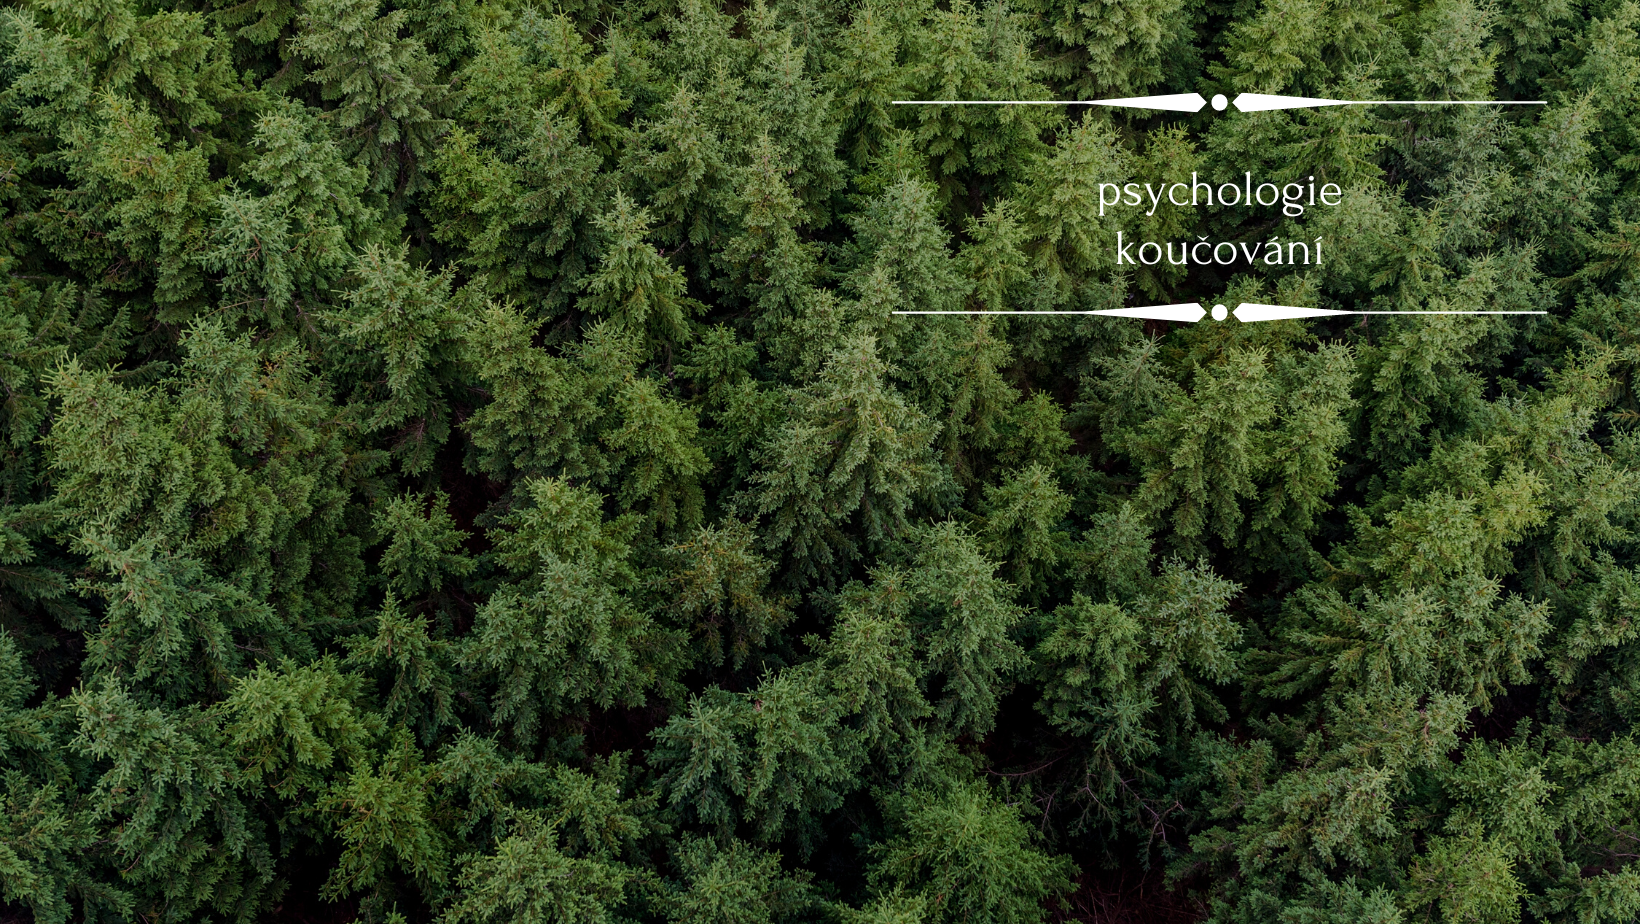
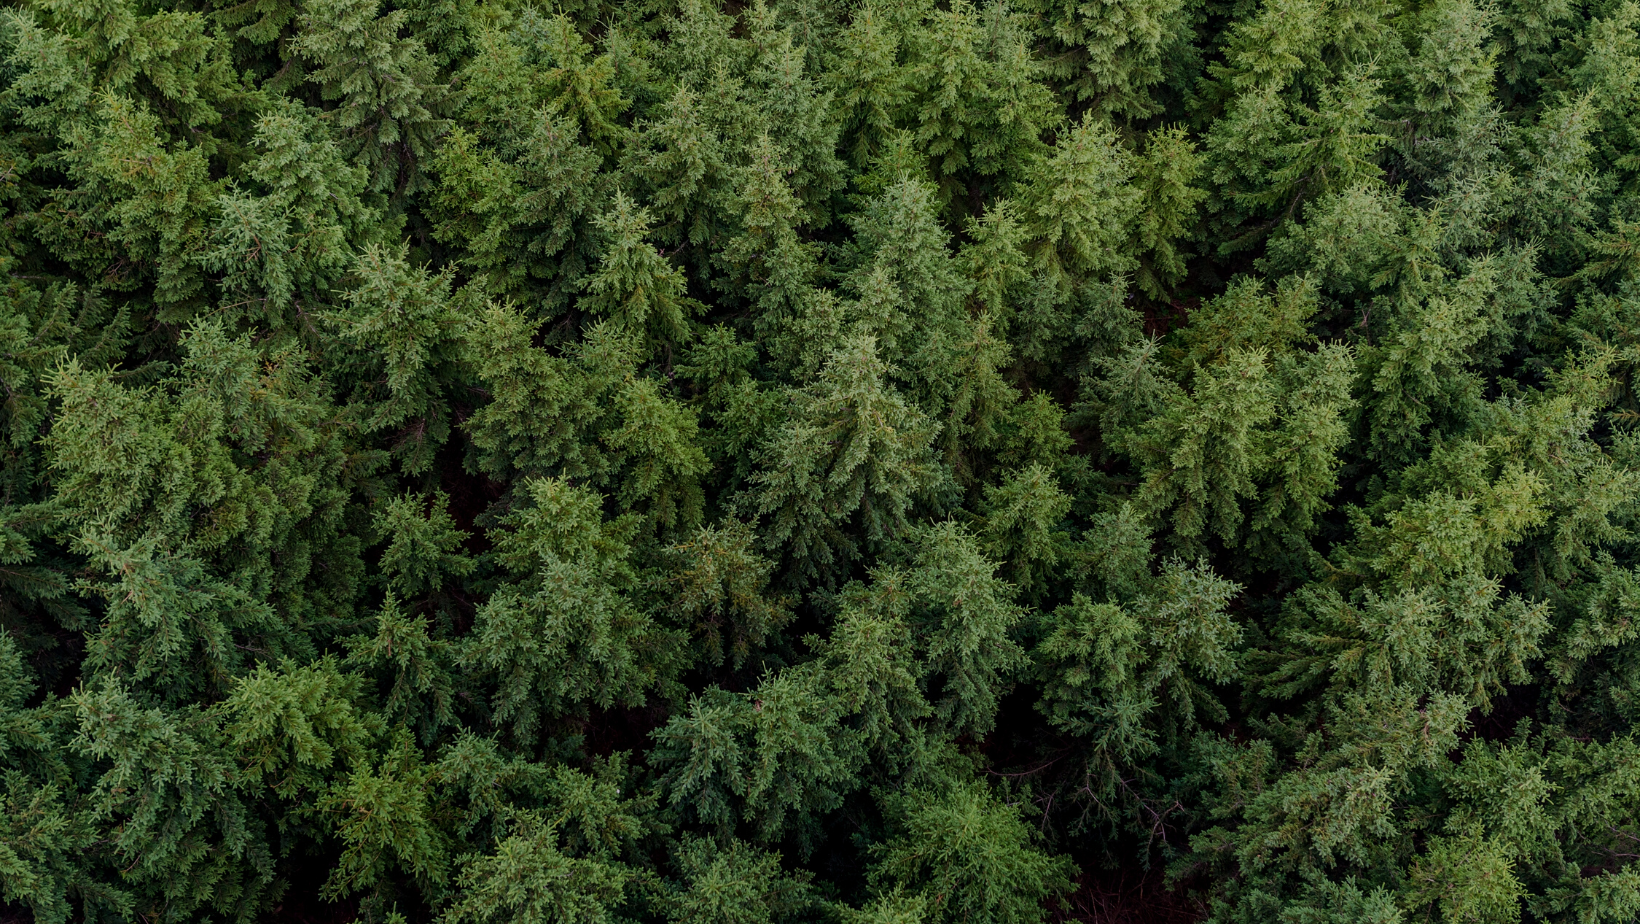
first graphics

Changed region(s): [[0.5598, 0.1818, 0.9329, 0.3636], [0.5598, 0.0909, 0.9329, 0.1212]]

diff --git a/css/style.css b/css/style.css
@@ -42,24 +42,33 @@ body {
   margin: 0;
   color: #020202;
   font-family: "Montserrat", sans-serif;
+  background-color: #E8DED1;
   font-size: 16px;
   font-weight: 200;
-  background-color: #E8DED1;
   width: 100%;
 }
 
 h1, h2, ul, li {
   margin: 0;
+  padding: 0;
 }
 
 img {
   max-width: 100%;
 }
 
-@media screen and (min-width: 1100px) {
+@media screen and (min-width: 1000px) {
   body {
+    background-color: #008B00;
+    background: url(/images/forest.png);
+    padding-top: 20px;
+  }
+  .text {
     max-width: 900px;
-    margin: 0 auto 80px auto;
+    margin: 0 auto;
+    background-color: #E8DED1;
+    border-radius: 10px;
+    padding: 20px;
   }
 }
 .footer__image {
@@ -74,6 +83,10 @@ img {
   padding: 20px;
 }
 
+.header__picture img {
+  max-height: 250px;
+}
+
 .header__name--main {
   font-weight: 200;
   padding: 10px 0;
@@ -84,6 +97,17 @@ img {
   font-size: 20px;
 }
 
+@media screen and (min-width: 640px) {
+  .head {
+    display: flex;
+    padding: 0 30px;
+  }
+  .header__text {
+    place-self: center end;
+    flex-grow: 1;
+    text-align: right;
+  }
+}
 .blok {
   margin: 20px;
 }

diff --git a/css/_base.scss b/css/_base.scss
@@ -12,15 +12,16 @@ body {
     margin: 0;
     color: colors.$main;
     font-family: 'Montserrat', sans-serif;
+    background-color: colors.$background;
     font-size: 16px;
     font-weight: 200;
-    background-color: colors.$background;
     width: 100%;
     
 }
 
 h1, h2, ul, li {
     margin: 0;
+    padding: 0;
 }
 
 img {
@@ -29,9 +30,20 @@ img {
 
 
 
-@media screen and (min-width: 1100px) {
+@media screen and (min-width: 1000px) {
     body {
-        max-width: 900px;
-        margin: 0 auto 80px auto;
+        background-color: colors.$green;
+        background: url(/images/forest.png);
+        padding-top: 20px;
     }
+
+    .text {
+        max-width: 900px;
+        margin: 0 auto;
+        background-color: colors.$background;
+        border-radius: 10px;
+        padding: 20px;
+        
+    }
+
 }

diff --git a/css/_header.scss b/css/_header.scss
@@ -3,6 +3,11 @@
     padding: 20px;
 }
 
+.header__picture img {
+    max-height: 250px;
+}
+
+
 .header__name--main {
     font-weight: 200;
     padding: 10px 0;
@@ -13,3 +18,16 @@
     font-weight: 100;
     font-size: 20px;
 }
+
+@media screen and (min-width: 640px) {
+    .head {
+        display: flex;
+        padding: 0 30px;
+    }
+
+    .header__text {
+        place-self: center end;
+        flex-grow: 1;
+        text-align: right;
+    }
+} 

diff --git a/css/_colors.scss b/css/_colors.scss
@@ -1,2 +1,3 @@
 $background: #E8DED1;
 $main: #020202;
+$green: #008B00; 
